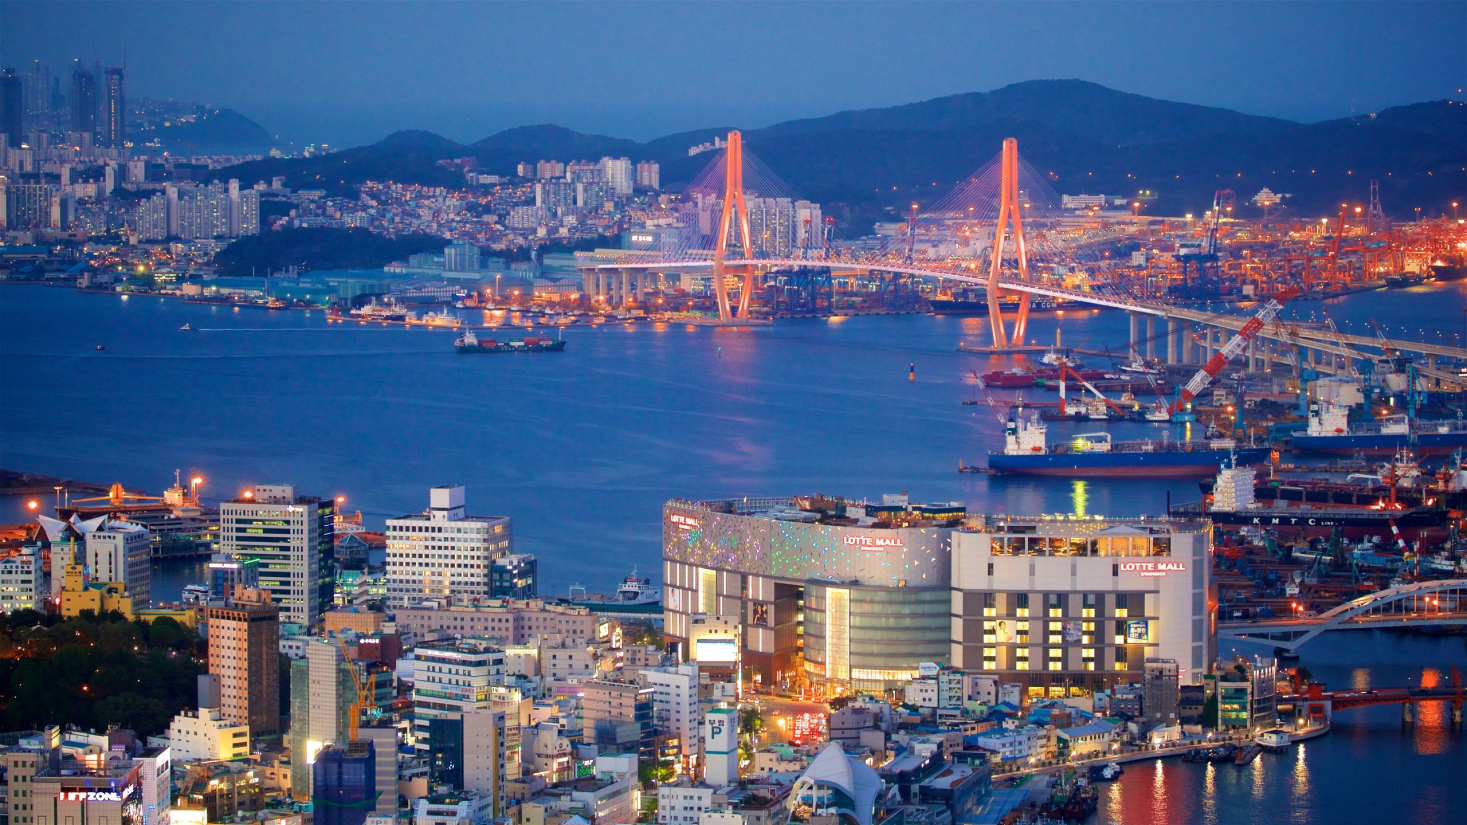
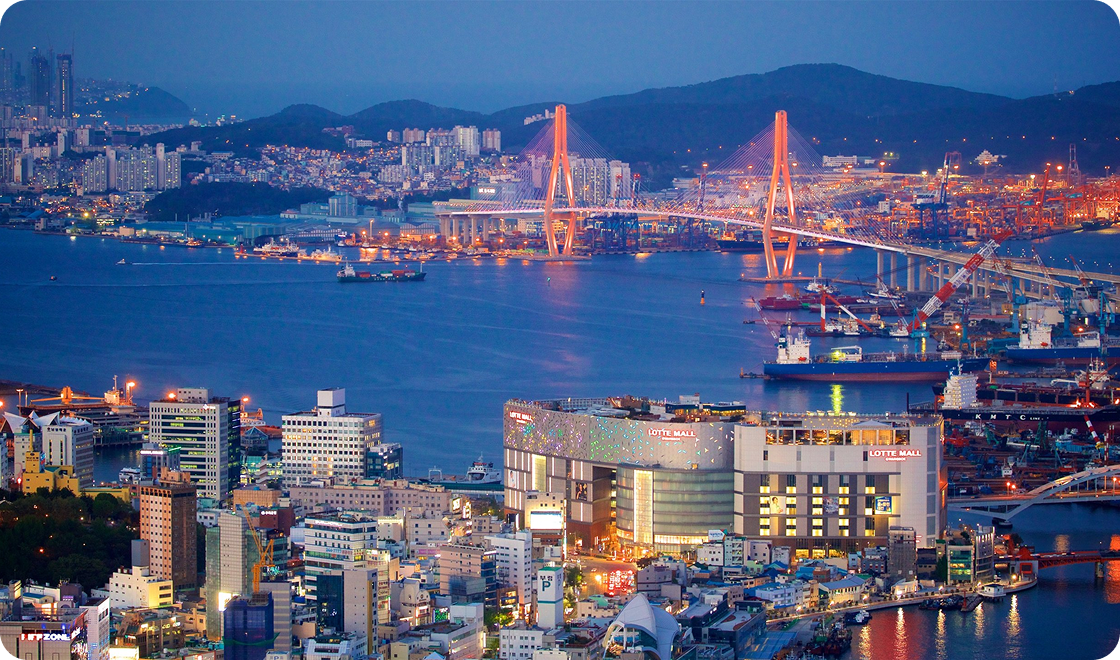
CSS + corrections

diff --git a/index.html b/index.html
@@ -26,6 +26,8 @@
             </p>
         </div>
 
+        <div class="divider"></div>
+
         <div class="content-list">
             <div class="title-list">
                 <div>
@@ -39,59 +41,56 @@
             </div>
 
             <div class="list">
-                <div>
-                    <img src="assets/Image_02.png" alt="Templo Haedong Yonggungsa">
+                <img src="assets/Image_02.png" alt="Templo Haedong Yonggungsa">
 
-                    <ol>
-                        <li>Templo Haedong Yonggungsa</li>
-                    </ol>
+                <h3>1. Templo Haedong Yonggungsa</h3>
+                
+                <p>
+                    O Templo Haedong Yonggungsa é um templo budista localizado no extremo nordeste de Busan. Construído em 1376, é um dos poucos templos na Coreia construídos à beira-mar – você pode desfrutar de vistas do Mar do Leste de um lado e de belas montanhas do outro.
+                </p>
+                <br>
 
-                    <p>
-                        O Templo Haedong Yonggungsa é um templo budista localizado no extremo nordeste de Busan. Construído em 1376, é um dos poucos templos na Coreia construídos à beira-mar – você pode desfrutar de vistas do Mar do Leste de um lado e de belas montanhas do outro.
-                    </p>
-                    <strong>Bom para:</strong>
-                    <ul>
-                        <li>História</li>
-                    </ul>
-                </div>
+                <strong>Bom para:</strong>
 
-                <div>
-                    <img src="assets/Image_03.png" alt="Templo Beomeo-sa">
+                <ul>
+                    <li><span>・</span>História</li>
+                </ul>
+
+                <img src="assets/Image_03.png" alt="Templo Beomeo-sa">
+                
+                <h3>2. Templo Beomeo-sa</h3>
+                
+                <p>
+                    O Templo Beomeo-sa é um dos maiores santuários da Coreia do Sul. Ele está localizado no alto da borda leste da montanha Geumjeongsa e fica distante da agitação da cidade. O Daeungjeon Hall do templo é um exemplo bem preservado da arquitetura da Dinastia Joseon.
+                </p>
+                <br>
+
+                <strong>Bom para:</strong>
+
+                <ul>
+                    <li><span>・</span>História</li>
+                </ul>
+
+                <img src="assets/Image_04.png" alt="Parque Yongdusan">
+
+                <h3>3. Parque Yongdusan</h3>
                     
-                    <ol>
-                        <li>Templo Beomeo-sa</li>
-                    </ol>
-                    
-                    <p>
-                        O Templo Beomeo-sa é um dos maiores santuários da Coreia do Sul. Ele está localizado no alto da borda leste da montanha Geumjeongsa e fica distante da agitação da cidade. O Daeungjeon Hall do templo é um exemplo bem preservado da arquitetura da Dinastia Joseon.
-                    </p>
-                    <strong>Bom para:</strong>
-                    <ul>
-                        <li>História</li>
-                    </ul>
-                </div>
+                <p>
+                    O Parque Yongdusan, localizado no centro de Busan, abriga alguns dos monumentos mais importantes da cidade. Você pode ver vistas espetaculares do topo da Torre Busan, de 120 metros de altura. O parque tem 2 museus – confira os instrumentos musicais tradicionais no Museum of World Folk Instruments e mais de 80 veleiros coreanos no Exhibition Hall of World Model Boats.
+                </p>
+                <br>
 
-                <div>
-                    <img src="assets/Image_04.png" alt="Parque Yongdusan">
+                <strong>Bom para:</strong>
 
-                    <ol>
-                        <li>Parque Yongdusan</li>
-                    </ol>
-                        
-                    <p>
-                        O Parque Yongdusan, localizado no centro de Busan, abriga alguns dos monumentos mais importantes da cidade. Você pode ver vistas espetaculares do topo da Torre Busan, de 120 metros de altura. O parque tem 2 museus – confira os instrumentos musicais tradicionais no Museum of World Folk Instruments e mais de 80 veleiros coreanos no Exhibition Hall of World Model Boats.
-                    </p>
-                    <strong>Bom para:</strong>
-                    <ul>
-                        <li>Casais</li>
-                        <li>Famílias</li>
-                        <li>Orçamento</li>
-                    </ul>
-                </div>
+                <ul>
+                    <li class="couple"><span>・</span>Casais</li>
+                    <li class="families"><span>・</span>Famílias</li>
+                    <li class="budget"><span>・</span>Orçamento</li>
+                </ul>
             </div>
         </div>
-
-        <div>
+        <div class="divider"></div>
+        <div class="description">
             <p>
                 As melhores coisas para fazer em Busan mostram a reputação da cidade como um importante porto marítimo na Ásia. Frequentemente vista como a essência da Coreia do Sul, você experimentará uma atmosfera única em termos de diversidade étnica e cultural, já que a cidade recebe um público cosmopolita o ano todo.
             </p>

diff --git a/style.css b/style.css
@@ -8,10 +8,10 @@
     --background-default: #F5F4F0;
     --border-primary: #D9D9D9;
 
-    --text-primary: #1B1B1B;
-    --text-secondary: #333333;
-    --text-tertiary: #696969;
-    --text-headline: #e1624f;
+    --color-primary: #1B1B1B;
+    --color-secondary: #333333;
+    --color-tertiary: #696969;
+    --color-headline: #e1624f;
 
     --accent-blue: #0C51A7;
     --accent-orange: #E95E10;
@@ -31,24 +31,34 @@ body {
     background-color: var(--background-default);
 }
 
+.container {
+    width: 1120px;
+    margin: 88px auto;
+}
+
 span {
-    color: #e1624f;
+    color: var(--color-headline);
     font: var(--text-headline);
+    text-transform: uppercase;
+    margin-bottom: 8px;
 }
 
 h1 {
-    font: var(--text-h1);
     color: var(--text-primary);
+    font: var(--text-h1);
+    margin-bottom: 40px;
 }
 
 h2 {
     font: var(--text-h2);
     color: var(--text-primary);
+    margin-bottom: 8px;
 }
 
 h3 {
     font: var(--text-h3);
-    color: var(--text-primary)
+    color: var(--text-primary);
+    margin-bottom: 4px;
 }
 
 p {
@@ -56,11 +66,87 @@ p {
     color: var(--text-secondary);
 }
 
-.description-image img{
+img {
     border-radius: 28px;
+    height: 660px;
 }
 
-.description-image p{
+footer {
+    text-align: center;
+    margin: 65px 0 48px;
+}
+
+footer img {
+    height: 16px;
+    width: 16px;
+    vertical-align: middle;
+}
+
+.description-image p {
     font: var(--text-subtitle);
-    
+    margin-bottom: 40px;
+}
+
+.divider {
+    width: 100%;
+    height: 1px;
+    background-color: var(--border-primary);
+}
+
+.divider:nth-last-child(2) {
+    margin-bottom: 40px;
+}
+
+.title-list {
+    padding-block: 64px;
+}
+
+.title-list span {
+    margin-bottom: 2px;
+}
+
+.content-list img {
+    margin-bottom: 20px;
+}
+
+.list {
+    font: var(--text-headline);
+}
+
+.list img {
+    height: 350px;
+    align-self: stretch;
+}
+
+.list div {
+    margin-bottom: 48px;
+}
+
+.list span {
+    color: black;
+}
+
+ul {
+    margin-bottom: 48px;
+    list-style: none;
+}
+
+ul li {
+    color: var(--accent-blue);
+}
+
+.couple {
+    color: var(--accent-purple);
+}
+
+.families {
+    color: var(--accent-pink);
+}
+
+.budget {
+    color: var(--accent-orange);
+}
+
+.description {
+    text-align: center;
 }
